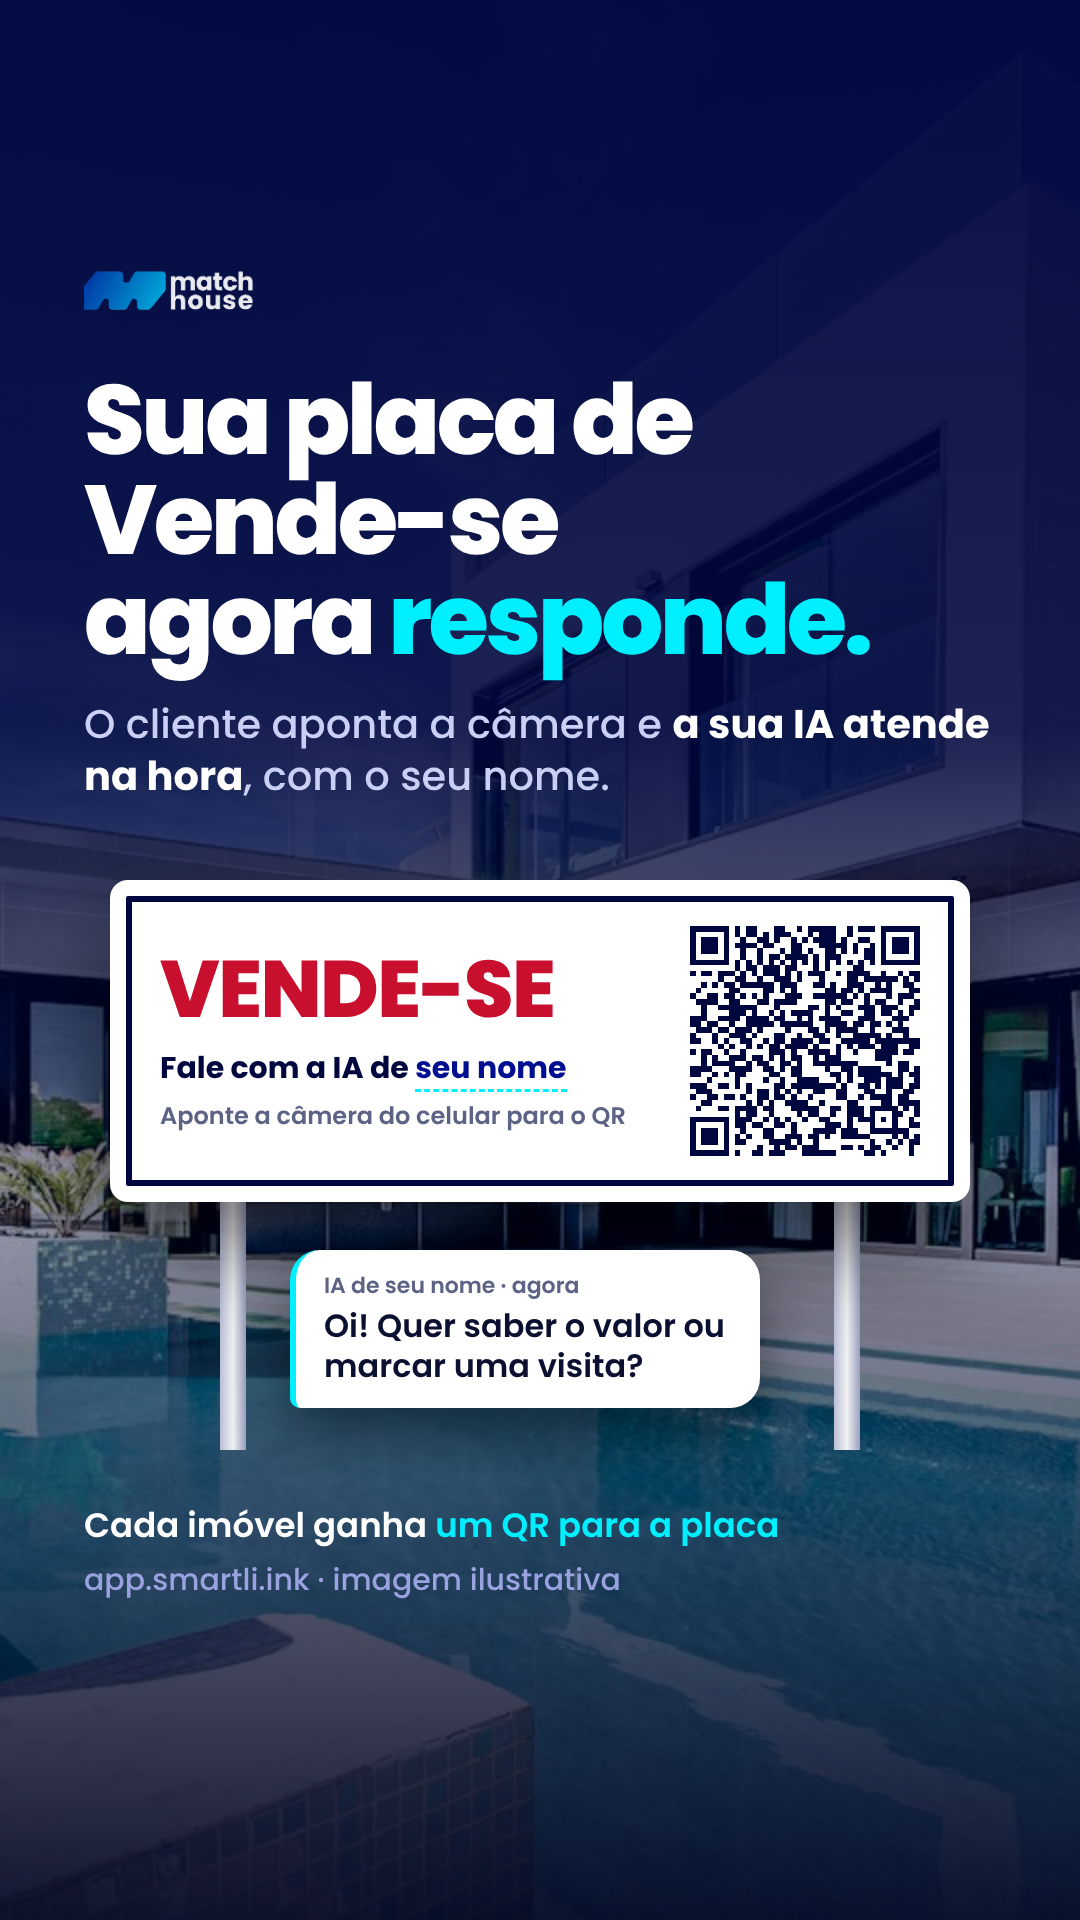
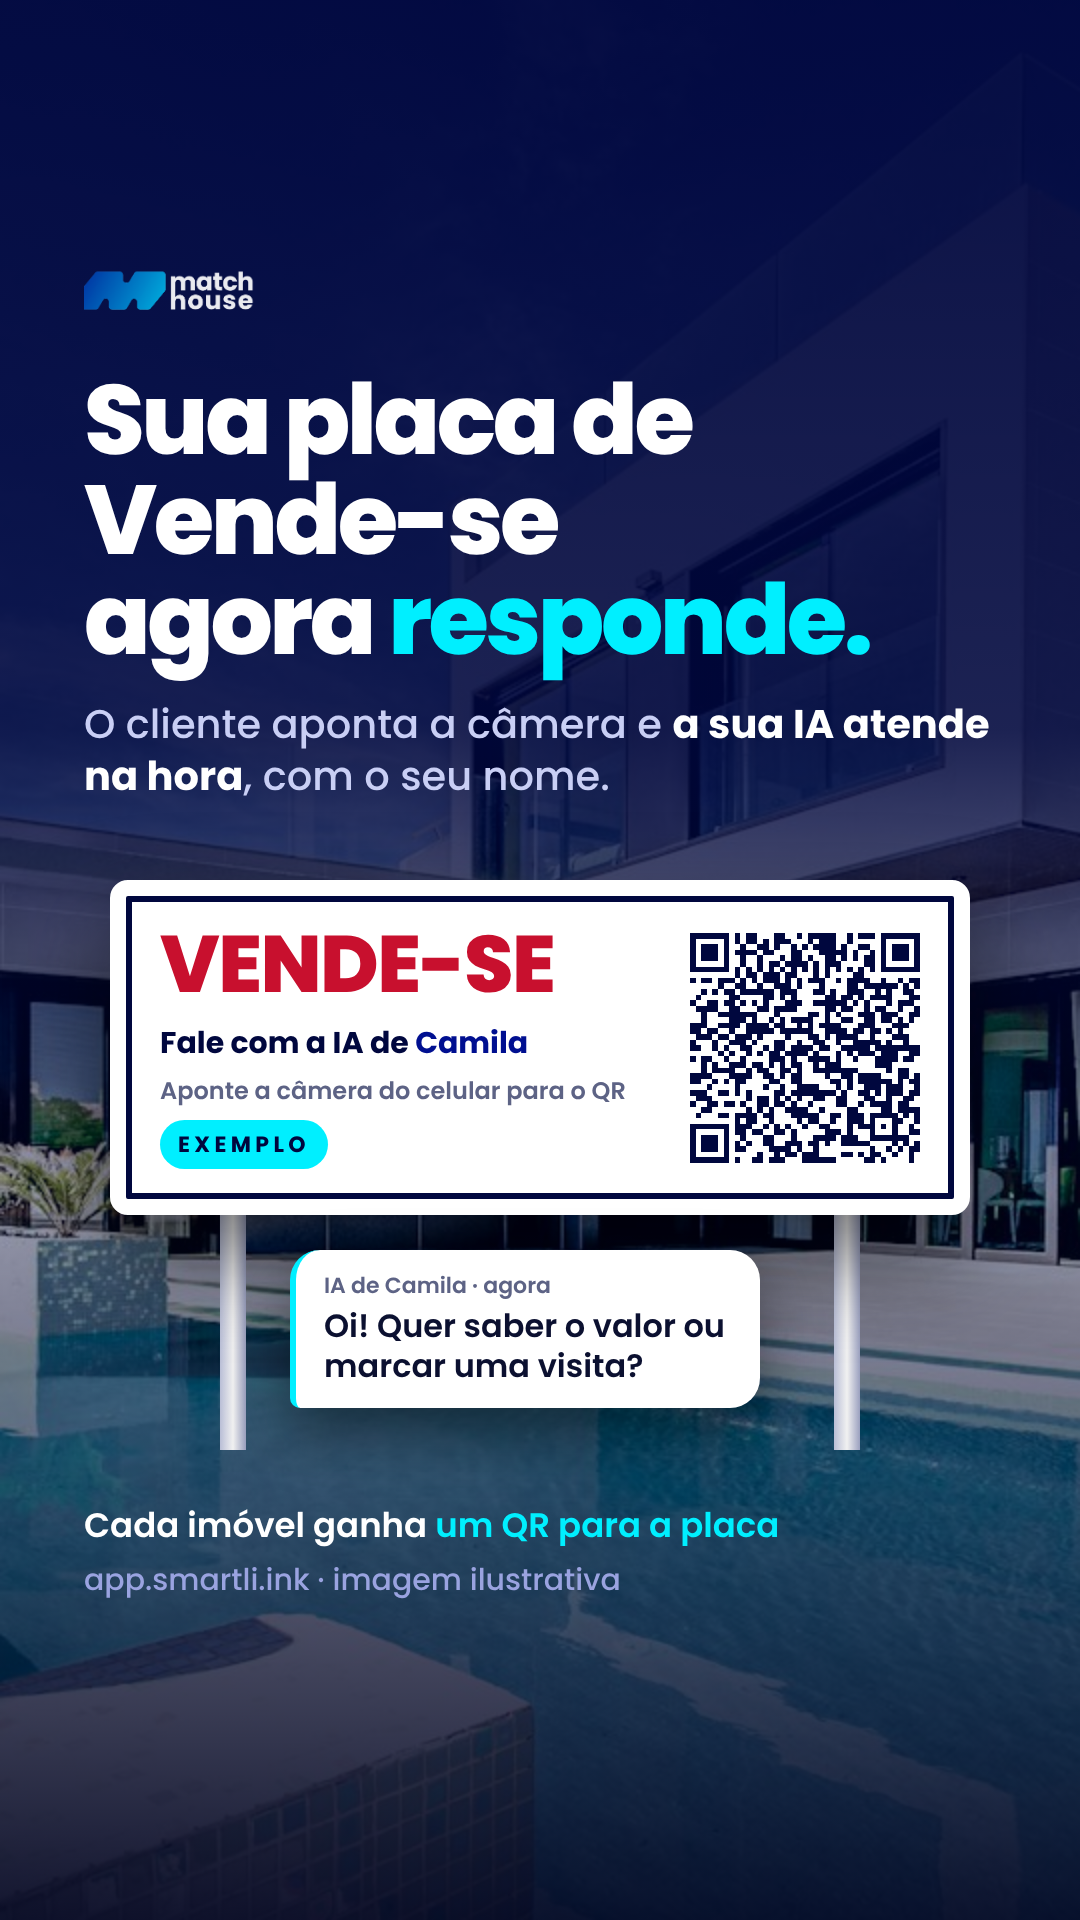
chore(anuncios): 11a e 11b com a Camila (exemplo) no lugar de "seu nome", e a fonte das artes 11
Claude-Session: https://claude.ai/code/session_01AcwN8eqkNLzNHMM46binBv

Changed region(s): [[0.0917, 0.4688, 0.8861, 0.6875]]

diff --git a/anuncios/fonte-11/artes.html b/anuncios/fonte-11/artes.html
@@ -1,0 +1,181 @@
+<!doctype html>
+<html lang="pt-BR">
+<head>
+<meta charset="utf-8">
+<title>Criativos 11</title>
+<style>
+  @font-face { font-family: P; src: url("../lp-main/_ds/match-house-design-system-a2408f83-cade-4df4-bc51-545884a020be/fonts/Poppins-Regular.ttf"); font-weight: 400; }
+  @font-face { font-family: P; src: url("../lp-main/_ds/match-house-design-system-a2408f83-cade-4df4-bc51-545884a020be/fonts/Poppins-Medium.ttf"); font-weight: 500; }
+  @font-face { font-family: P; src: url("../lp-main/_ds/match-house-design-system-a2408f83-cade-4df4-bc51-545884a020be/fonts/Poppins-SemiBold.ttf"); font-weight: 600; }
+  @font-face { font-family: P; src: url("../lp-main/_ds/match-house-design-system-a2408f83-cade-4df4-bc51-545884a020be/fonts/Poppins-Bold.ttf"); font-weight: 700; }
+  @font-face { font-family: P; src: url("../lp-main/_ds/match-house-design-system-a2408f83-cade-4df4-bc51-545884a020be/fonts/Poppins-ExtraBold.ttf"); font-weight: 800; }
+
+  :root { --navy: #00073e; --blue: #000f90; --cyan: #00efff; --ink: #0b1030; --muted: #5d6385; --line: #e4e7f2; }
+  * { box-sizing: border-box; margin: 0; padding: 0; }
+  body { background: #222; font-family: P, sans-serif; display: flex; flex-wrap: wrap; gap: 40px; padding: 40px; }
+
+  .art { width: 1080px; height: 1920px; position: relative; overflow: hidden; color: #fff;
+         background: radial-gradient(120% 70% at 85% 0%, #0b1fa8 0%, #00073e 55%, #00031f 100%);
+         padding: 0 84px; }
+  .top { position: absolute; left: 84px; right: 84px; top: 268px; }
+  .logo { height: 58px; display: block; }
+  .eyebrow { margin-top: 44px; font-weight: 700; font-size: 31px; letter-spacing: .22em; color: var(--cyan); text-transform: uppercase; }
+  h1 { margin-top: 22px; font-weight: 800; font-size: 98px; line-height: 1.02; letter-spacing: -.035em; text-wrap: balance; }
+  h1 .c { color: var(--cyan); }
+  .sub { margin-top: 28px; font-weight: 500; font-size: 40px; line-height: 1.3; color: #c9cff5; text-wrap: pretty; }
+  .sub b { color: #fff; font-weight: 700; }
+  .foot { position: absolute; left: 84px; right: 84px; top: 1500px; display: flex; align-items: center; justify-content: space-between; }
+  .foot .t { font-weight: 600; font-size: 34px; color: #fff; }
+  .foot .t span { color: var(--cyan); }
+  .foot .u { font-weight: 500; font-size: 30px; color: #9aa3e0; margin-top: 6px; }
+  .tag { display: inline-block; font-weight: 700; font-size: 22px; letter-spacing: .2em; text-transform: uppercase;
+         color: var(--navy); background: var(--cyan); padding: 8px 18px; border-radius: 999px; }
+
+  /* card de conversa */
+  .chat { position: absolute; left: 84px; right: 84px; background: #fff; border-radius: 44px; color: var(--ink);
+          box-shadow: 0 40px 90px rgba(0,0,0,.45); padding: 34px 36px 40px; }
+  .chat .hd { display: flex; align-items: center; gap: 22px; padding-bottom: 26px; border-bottom: 2px solid var(--line); }
+  .av { width: 84px; height: 84px; border-radius: 50%; background: linear-gradient(135deg, #0b1fa8, #00073e); color: #fff;
+        display: grid; place-items: center; font-weight: 800; font-size: 30px; position: relative; flex: none; }
+  .av::after { content: ""; position: absolute; right: 2px; bottom: 2px; width: 20px; height: 20px; border-radius: 50%; background: var(--cyan); border: 4px solid #fff; }
+  .nm { font-weight: 700; font-size: 36px; line-height: 1.1; }
+  .nm i { font-style: normal; color: var(--blue); }
+  .lk { font-weight: 500; font-size: 26px; color: var(--muted); margin-top: 4px; }
+  .chat .ex { margin-left: auto; align-self: flex-start; }
+  .msgs { display: flex; flex-direction: column; gap: 20px; padding-top: 30px; }
+  .b { max-width: 82%; font-weight: 500; font-size: 35px; line-height: 1.3; padding: 22px 28px; border-radius: 30px; }
+  .b small { display: block; font-size: 22px; font-weight: 600; opacity: .65; margin-top: 8px; }
+  .cli { align-self: flex-end; background: var(--blue); color: #fff; border-bottom-right-radius: 10px; }
+  .ia { align-self: flex-start; background: #eef1fb; border-bottom-left-radius: 10px; border-left: 6px solid var(--cyan); }
+
+  /* 11b placa */
+  .foto { position: absolute; inset: 0; background-size: cover; background-position: center; }
+  .veu { position: absolute; inset: 0; background: linear-gradient(180deg, rgba(0,7,62,.96) 0%, rgba(0,7,62,.88) 38%, rgba(0,7,62,.35) 62%, rgba(0,3,31,.92) 100%); }
+  .placa { position: absolute; left: 110px; right: 110px; top: 880px; background: #fff; border-radius: 18px; color: var(--navy);
+           box-shadow: 0 40px 90px rgba(0,0,0,.5); padding: 36px 40px; display: grid; grid-template-columns: 1fr 230px; gap: 28px; align-items: center;
+           border: 10px solid #fff; outline: 6px solid var(--navy); outline-offset: -22px; }
+  .placa .v { font-weight: 800; font-size: 80px; letter-spacing: -.02em; line-height: .95; color: #c8102e; }
+  .placa .n { font-weight: 700; font-size: 30px; margin-top: 18px; }
+  .placa .n span { color: var(--blue); }
+  .placa .a { font-weight: 600; font-size: 24px; color: var(--muted); margin-top: 10px; line-height: 1.25; }
+  .placa .qr { width: 230px; height: 230px; }
+  .placa .qr svg { width: 100%; height: 100%; display: block; }
+  .poste { position: absolute; top: 1200px; width: 26px; height: 250px; background: linear-gradient(90deg, #b9bed6, #f1f1f1, #9aa0bf); }
+  .bal { position: absolute; left: 290px; top: 1250px; background: #fff; color: var(--ink); border-radius: 30px; border-bottom-left-radius: 10px;
+         padding: 22px 28px; font-weight: 600; font-size: 32px; line-height: 1.25; max-width: 470px; box-shadow: 0 24px 60px rgba(0,0,0,.45); border-left: 6px solid var(--cyan); }
+  .bal small { display: block; font-size: 22px; color: var(--muted); font-weight: 600; margin-bottom: 6px; }
+
+  /* 11c lista */
+  .lista { position: absolute; left: 84px; right: 84px; top: 930px; background: #fff; border-radius: 44px; color: var(--ink); padding: 30px 36px 18px;
+           box-shadow: 0 40px 90px rgba(0,0,0,.45); }
+  .lista .hd { display: flex; justify-content: space-between; align-items: center; padding-bottom: 18px; }
+  .lista .hd b { font-weight: 700; font-size: 32px; }
+  .row { display: grid; grid-template-columns: 1fr auto; gap: 18px; align-items: center; padding: 24px 0; border-top: 2px solid var(--line); }
+  .row .o { font-weight: 700; font-size: 24px; letter-spacing: .08em; text-transform: uppercase; color: var(--blue); }
+  .row .q { font-weight: 500; font-size: 34px; margin-top: 4px; }
+  .ok { font-weight: 700; font-size: 25px; color: #064e3b; background: #d6f7ea; padding: 10px 18px; border-radius: 999px; white-space: nowrap; }
+
+  /* 11d importar */
+  .campo { position: absolute; left: 84px; right: 84px; top: 850px; background: #fff; border-radius: 30px; padding: 24px 30px; color: var(--ink);
+           box-shadow: 0 30px 70px rgba(0,0,0,.4); }
+  .campo .l { font-weight: 700; font-size: 24px; letter-spacing: .1em; text-transform: uppercase; color: var(--muted); }
+  .campo .u { font-weight: 500; font-size: 32px; margin-top: 8px; color: var(--blue); white-space: nowrap; overflow: hidden; text-overflow: ellipsis; }
+  .seta { position: absolute; left: 50%; top: 1005px; transform: translateX(-50%); font-weight: 700; font-size: 26px; color: var(--cyan); letter-spacing: .14em; text-transform: uppercase; text-align: center; }
+  .seta::after { content: ""; display: block; width: 4px; height: 44px; margin: 10px auto 0; background: var(--cyan); }
+  .imovel { position: absolute; left: 150px; right: 150px; top: 1105px; background: #fff; border-radius: 34px; overflow: hidden; color: var(--ink);
+            box-shadow: 0 40px 90px rgba(0,0,0,.5); }
+  .imovel .f { height: 245px; background-size: cover; background-position: center 60%; position: relative; }
+  .imovel .f .tag { position: absolute; left: 22px; top: 22px; }
+  .imovel .d { padding: 22px 28px 26px; }
+  .imovel .tt { font-weight: 700; font-size: 34px; line-height: 1.2; }
+  .imovel .mt { font-weight: 500; font-size: 26px; color: var(--muted); margin-top: 6px; }
+</style>
+</head>
+<body>
+
+<!-- 11a · a promessa do anúncio do ChatGPT -->
+<section class="art" id="a11">
+  <div class="top">
+    <img class="logo" src="logo-dark.png" alt="">
+    <div class="eyebrow">IA para corretores de imóveis</div>
+    <h1>Sua IA responde seus clientes 24h, <span class="c">com o seu nome.</span></h1>
+  </div>
+  <div class="chat" style="top: 900px">
+    <div class="hd">
+      <div class="av">CD</div>
+      <div><div class="nm">IA de <i>Camila</i></div><div class="lk">smartli.ink/camiladuarte</div></div>
+      <span class="tag ex">Exemplo</span>
+    </div>
+    <div class="msgs">
+      <div class="b cli">Boa noite! Esse apartamento ainda está disponível?<small>23h47</small></div>
+      <div class="b ia">Está, sim! São 3 quartos e 2 vagas. Quer que eu marque uma visita?<small>23h47</small></div>
+    </div>
+  </div>
+  <div class="foot">
+    <div><div class="t">Smart Link com IA <span>no link da sua bio</span></div><div class="u">app.smartli.ink · sem cartão · pronto em 5 min</div></div>
+  </div>
+</section>
+
+<!-- 11b · QR na placa -->
+<section class="art" id="b11">
+  <div class="foto" style="background-image: url('casa-fachada.jpg')"></div>
+  <div class="veu"></div>
+  <div class="top">
+    <img class="logo" src="logo-dark.png" alt="">
+    <h1 style="margin-top: 44px">Sua placa de Vende-se agora <span class="c">responde.</span></h1>
+    <div class="sub">O cliente aponta a câmera e <b>a sua IA atende na hora</b>, com o seu nome.</div>
+  </div>
+  <div class="poste" style="left: 220px"></div>
+  <div class="poste" style="left: 834px"></div>
+  <div class="placa">
+    <div>
+      <div class="v">VENDE-SE</div>
+      <div class="n">Fale com a IA de <span>Camila</span></div>
+      <div class="a">Aponte a câmera do celular para o QR</div>
+      <span class="tag" style="margin-top: 14px">Exemplo</span>
+    </div>
+    <div class="qr">__QR__</div>
+  </div>
+  <div class="bal"><small>IA de Camila · agora</small>Oi! Quer saber o valor ou marcar uma visita?</div>
+  <div class="foot">
+    <div><div class="t">Cada imóvel ganha <span>um QR para a placa</span></div><div class="u">app.smartli.ink · imagem ilustrativa</div></div>
+  </div>
+</section>
+
+<!-- 11c · não precisa de mais leads -->
+<section class="art" id="c11">
+  <div class="top">
+    <img class="logo" src="logo-dark.png" alt="">
+    <h1 style="margin-top: 44px">Você não precisa de mais leads. <span class="c">Precisa responder os que já chegam.</span></h1>
+  </div>
+  <div class="lista">
+    <div class="hd"><b>Quem chegou hoje</b><span class="tag">Exemplo</span></div>
+    <div class="row"><div><div class="o">Instagram · 23h12</div><div class="q">"Qual o valor do condomínio?"</div></div><span class="ok">IA respondeu</span></div>
+    <div class="row"><div><div class="o">Placa · 07h40</div><div class="q">"Ainda está disponível?"</div></div><span class="ok">IA respondeu</span></div>
+    <div class="row"><div><div class="o">Indicação · 13h05</div><div class="q">"Aceita financiamento?"</div></div><span class="ok">IA respondeu</span></div>
+  </div>
+  <div class="foot">
+    <div><div class="t">A IA atende <span>quem já procura você</span></div><div class="u">app.smartli.ink · com o seu nome, 24h</div></div>
+  </div>
+</section>
+
+<!-- 11d · cole o link -->
+<section class="art" id="d11">
+  <div class="top">
+    <img class="logo" src="logo-dark.png" alt="">
+    <h1 style="margin-top: 44px">Cole o link do anúncio. <span class="c">A IA preenche o imóvel.</span></h1>
+    <div class="sub">Fotos, descrição e dados entram sozinhos. <b>Você confere e publica.</b></div>
+  </div>
+  <div class="campo"><div class="l">Link do anúncio</div><div class="u">https://seusite.com.br/imovel/casa-3-suites</div></div>
+  <div class="seta">Preencher com a IA</div>
+  <div class="imovel">
+    <div class="f" style="background-image: url('casa-piscina.jpg')"><span class="tag">Exemplo</span></div>
+    <div class="d"><div class="tt">Casa com piscina · 3 suítes</div><div class="mt">Venda · Residencial · Casa</div></div>
+  </div>
+  <div class="foot">
+    <div><div class="t">Até <span>100 imóveis no ar</span></div><div class="u">app.smartli.ink · sem cartão · pronto em 5 min</div></div>
+  </div>
+</section>
+
+</body>
+</html>
